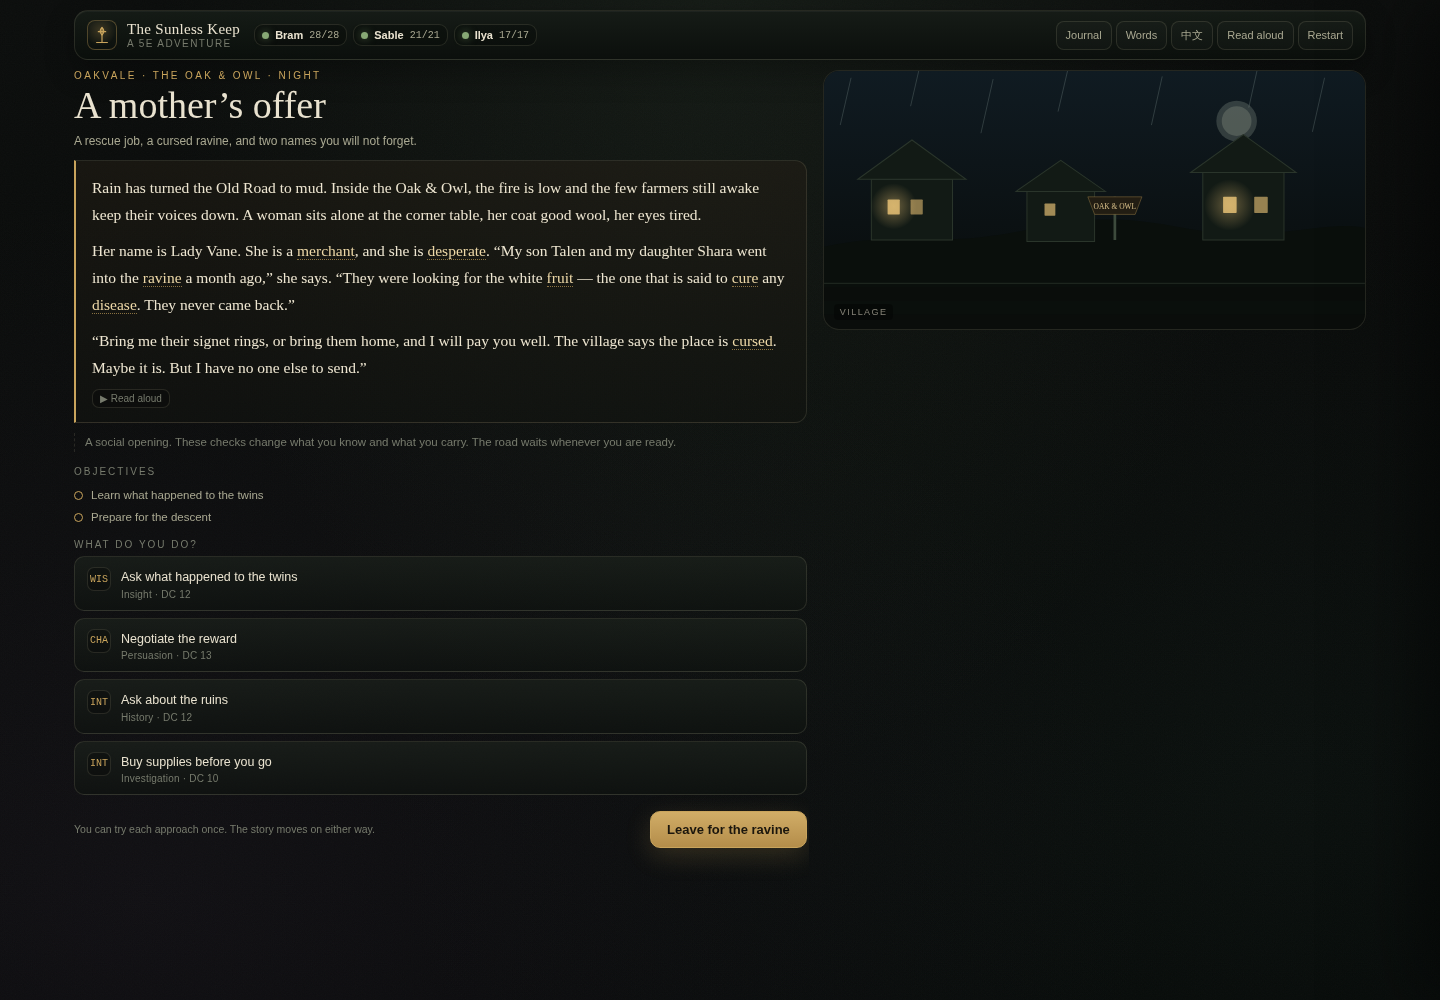
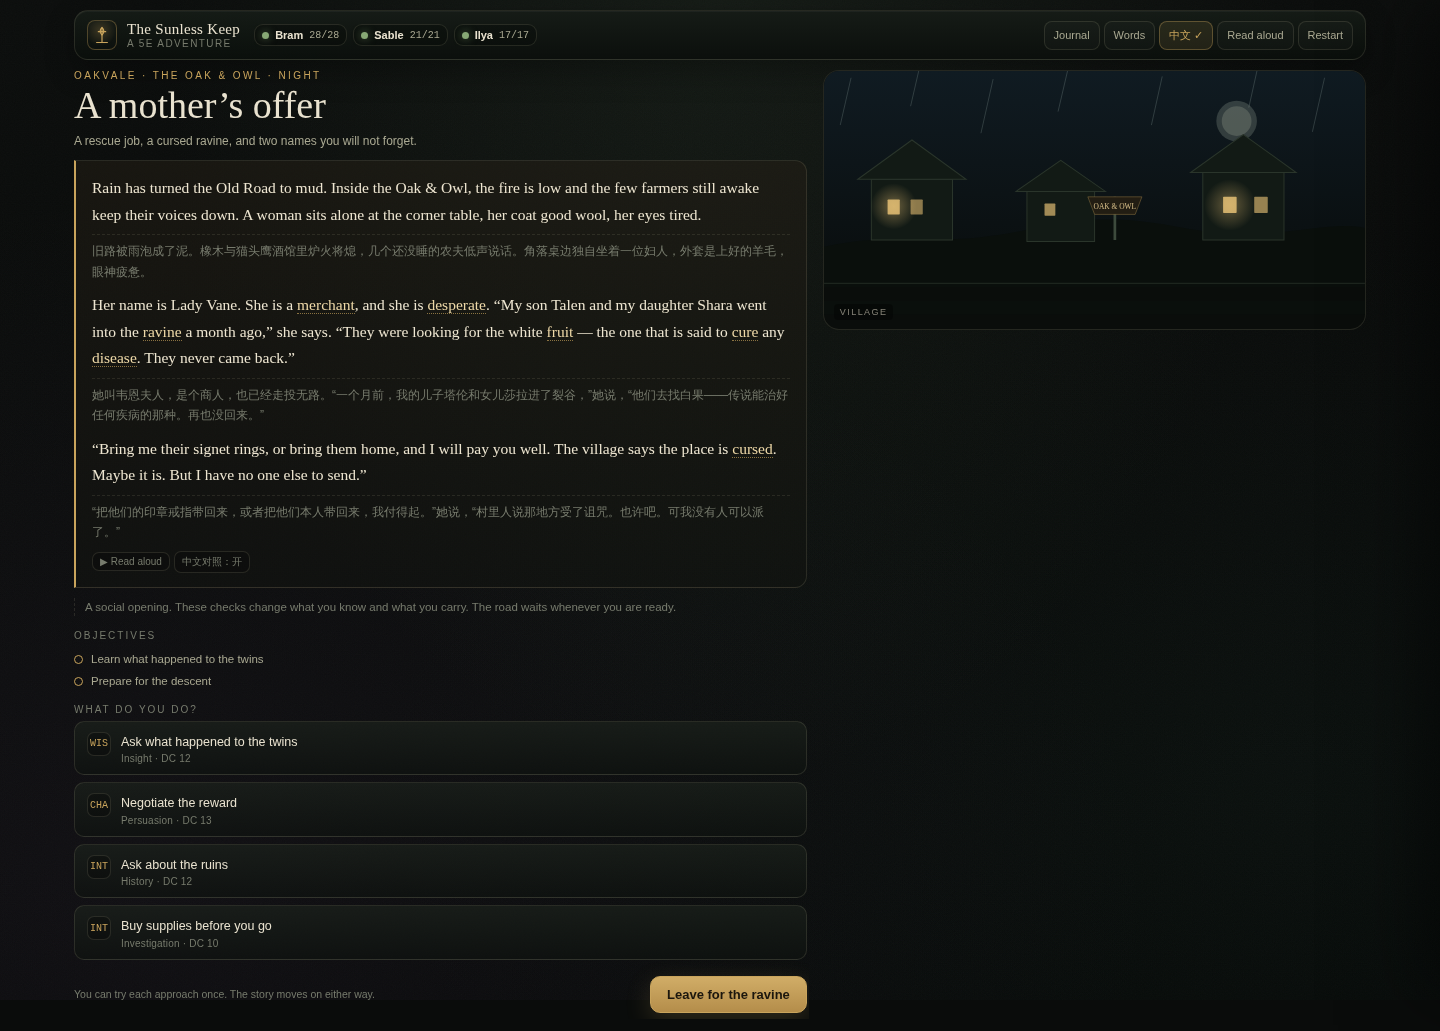
fix: show the Chinese translation by default

diff --git a/prototype/sunless-keep/app.js b/prototype/sunless-keep/app.js
@@ -28,7 +28,7 @@ const state = {
   combat: null,
   aftermath: null,
   endingId: null,
-  showZh: false,
+  showZh: true,
   sound: false,
   mapZoom: 1,
   selectedId: null,
@@ -128,7 +128,7 @@ function renderHud() {
       </button>`;
     }).join('');
   }
-  const zh = $('#zhBtn'); if (zh) { zh.classList.toggle('on', state.showZh); zh.setAttribute('aria-pressed', state.showZh); }
+  const zh = $('#zhBtn'); if (zh) { zh.textContent = state.showZh ? '中文 ✓' : '中文'; zh.classList.toggle('on', state.showZh); zh.setAttribute('aria-pressed', state.showZh); }
   const snd = $('#soundBtn'); if (snd) { snd.classList.toggle('on', state.sound); snd.setAttribute('aria-pressed', state.sound); }
   strip.querySelectorAll('[data-sheet]').forEach((b) => b.addEventListener('click', () => openSheet(getChar(b.dataset.sheet))));
 }
@@ -543,7 +543,8 @@ function bindGlobal() {
 function boot() {
   bindGlobal();
   const saved = loadGame();
-  if (saved) { state.showZh = !!saved.showZh; document.body.classList.toggle('show-zh', state.showZh); }
+  if (saved) state.showZh = !!saved.showZh;
+  document.body.classList.toggle('show-zh', state.showZh);
   renderTitle();
 }
 
@@ -616,6 +617,7 @@ function renderScene() {
         <div class="readaloud">
           ${readHtml}
           <button class="tts-btn" id="ttsBtn">▶ Read aloud</button>
+          <button class="tts-btn" id="zhInline">${state.showZh ? '中文对照：开' : '中文对照：关'}</button>
         </div>
         ${s.dm ? `<div class="dm-note">${esc(s.dm)}</div>` : ''}
         ${objectives ? `<div class="interact-title">Objectives</div><div class="objectives">${objectives}</div>` : ''}
@@ -632,6 +634,11 @@ function renderScene() {
     </div>`);
 
   $('#ttsBtn').addEventListener('click', () => speak(ttsText));
+  $('#zhInline').addEventListener('click', () => {
+    state.showZh = !state.showZh;
+    document.body.classList.toggle('show-zh', state.showZh);
+    renderHud(); renderScene(); saveGame();
+  });
   $$('[data-act]').forEach((b) => b.addEventListener('click', () => {
     if (b.dataset.done) return;
     const x = s.interactions.find((i) => i.id === b.dataset.act);

diff --git a/prototype/sunless-keep/README.md b/prototype/sunless-keep/README.md
@@ -20,7 +20,7 @@ This is an adaptation of the first adventure in the 5e anthology the requester s
 | **Three player characters** | choose any 3 of 4 level-3 pregens (fighter, rogue, wizard, cleric); you control the whole party |
 | **Three pillars** | exploration (checks, terrain, light pressure), social (insight / persuasion / intimidation / stealth), combat (initiative, grid, spells) |
 | **Rules** | d20 checks and saves, advantage/disadvantage, AC and cover, critical hits, damage types, conditions, death saves, short rests, spell slots |
-| **Learning layer** | 47 highlighted CET-4 words with Chinese + example; Chinese toggle; browser read-aloud; word drawer |
+| **Learning layer** | 47 highlighted CET-4 words with Chinese + example; bilingual scene text on by default (top-bar `中文` or inline `中文对照` to hide); browser read-aloud; word drawer |
 | **Save** | automatic `localStorage` save between scenes; Continue from the title |
 | **Responsive** | desktop and phone; zoom controls and names on the token bases in combat |
 
@@ -57,6 +57,12 @@ A full run is about **20–35 minutes**; combat can end a run early, and the def
 | Class features | Second Wind, Action Surge, Cunning Action, Arcane Recovery (short rest), Preserve Life |
 | Rest | after a fight a short rest spends one Hit Die per character, resets short-rest features, and recovers two levels of wizard slots |
 | XP | awarded per defeated creature and per victory; pregens are level 3 and this vertical slice does not include level-up |
+
+## English-learning layer
+
+Chinese translations are **on by default** in the read-aloud and result cards, so a first-time player is never left with English only. The top-bar `中文` button and the inline `中文对照` button hide or show them. Interaction labels and rules terms stay in English on purpose — the goal is still to learn the 5e vocabulary.
+
+Every highlighted word opens a Chinese meaning and an example; the Words drawer lists all 47. Read-aloud uses the browser's SpeechSynthesis.
 
 ### Deliberate simplifications
 
